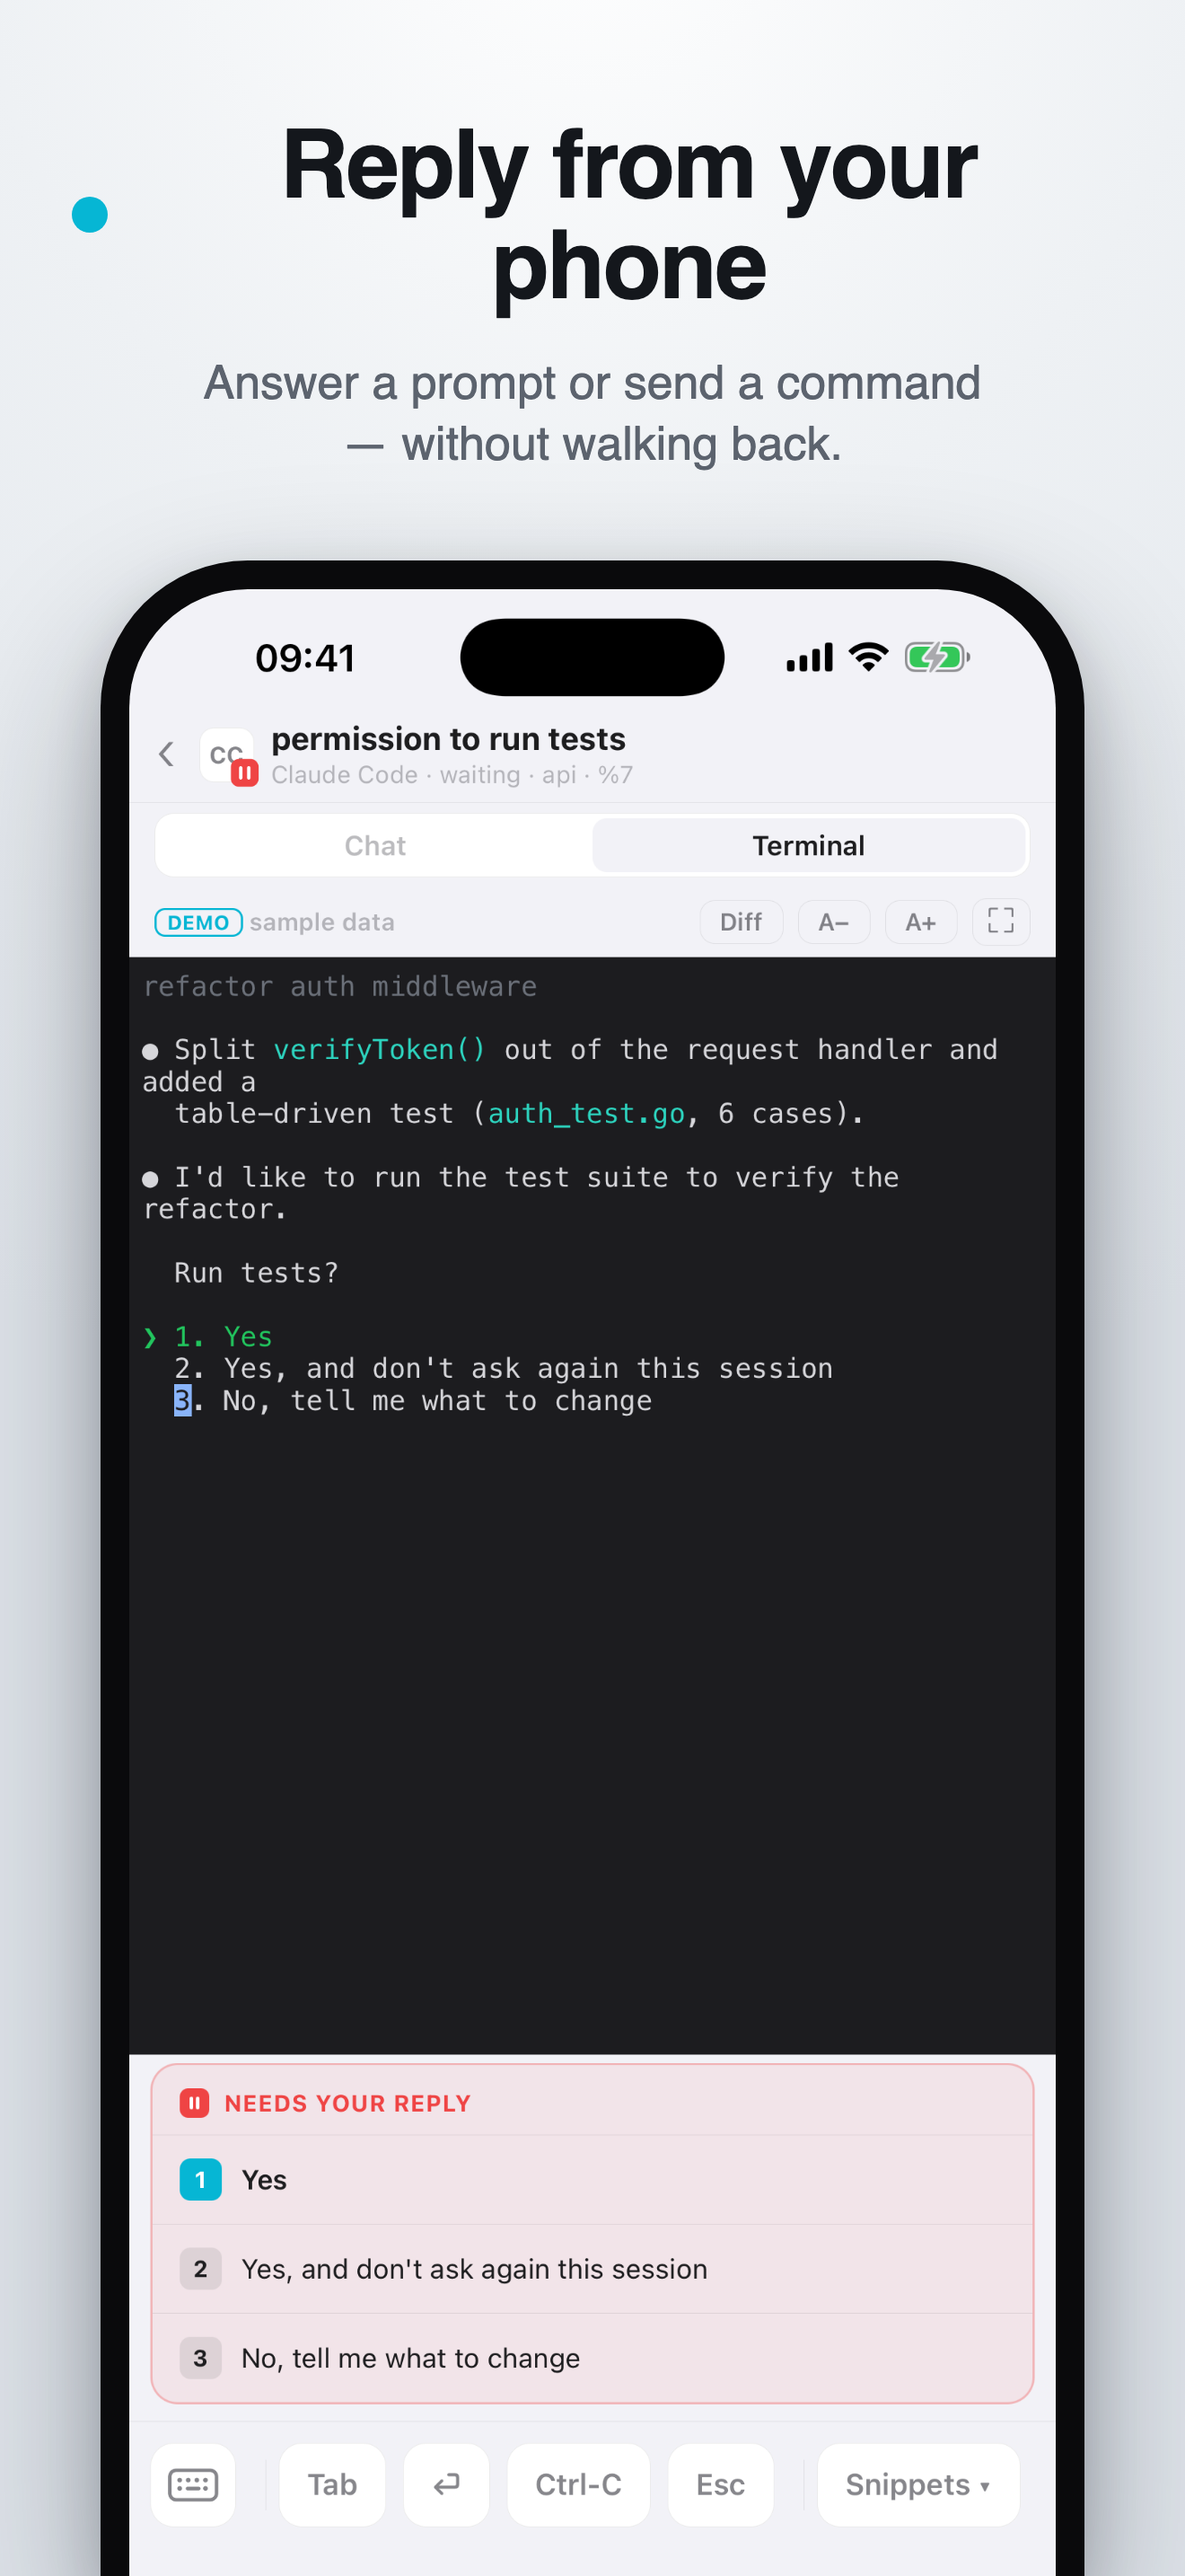
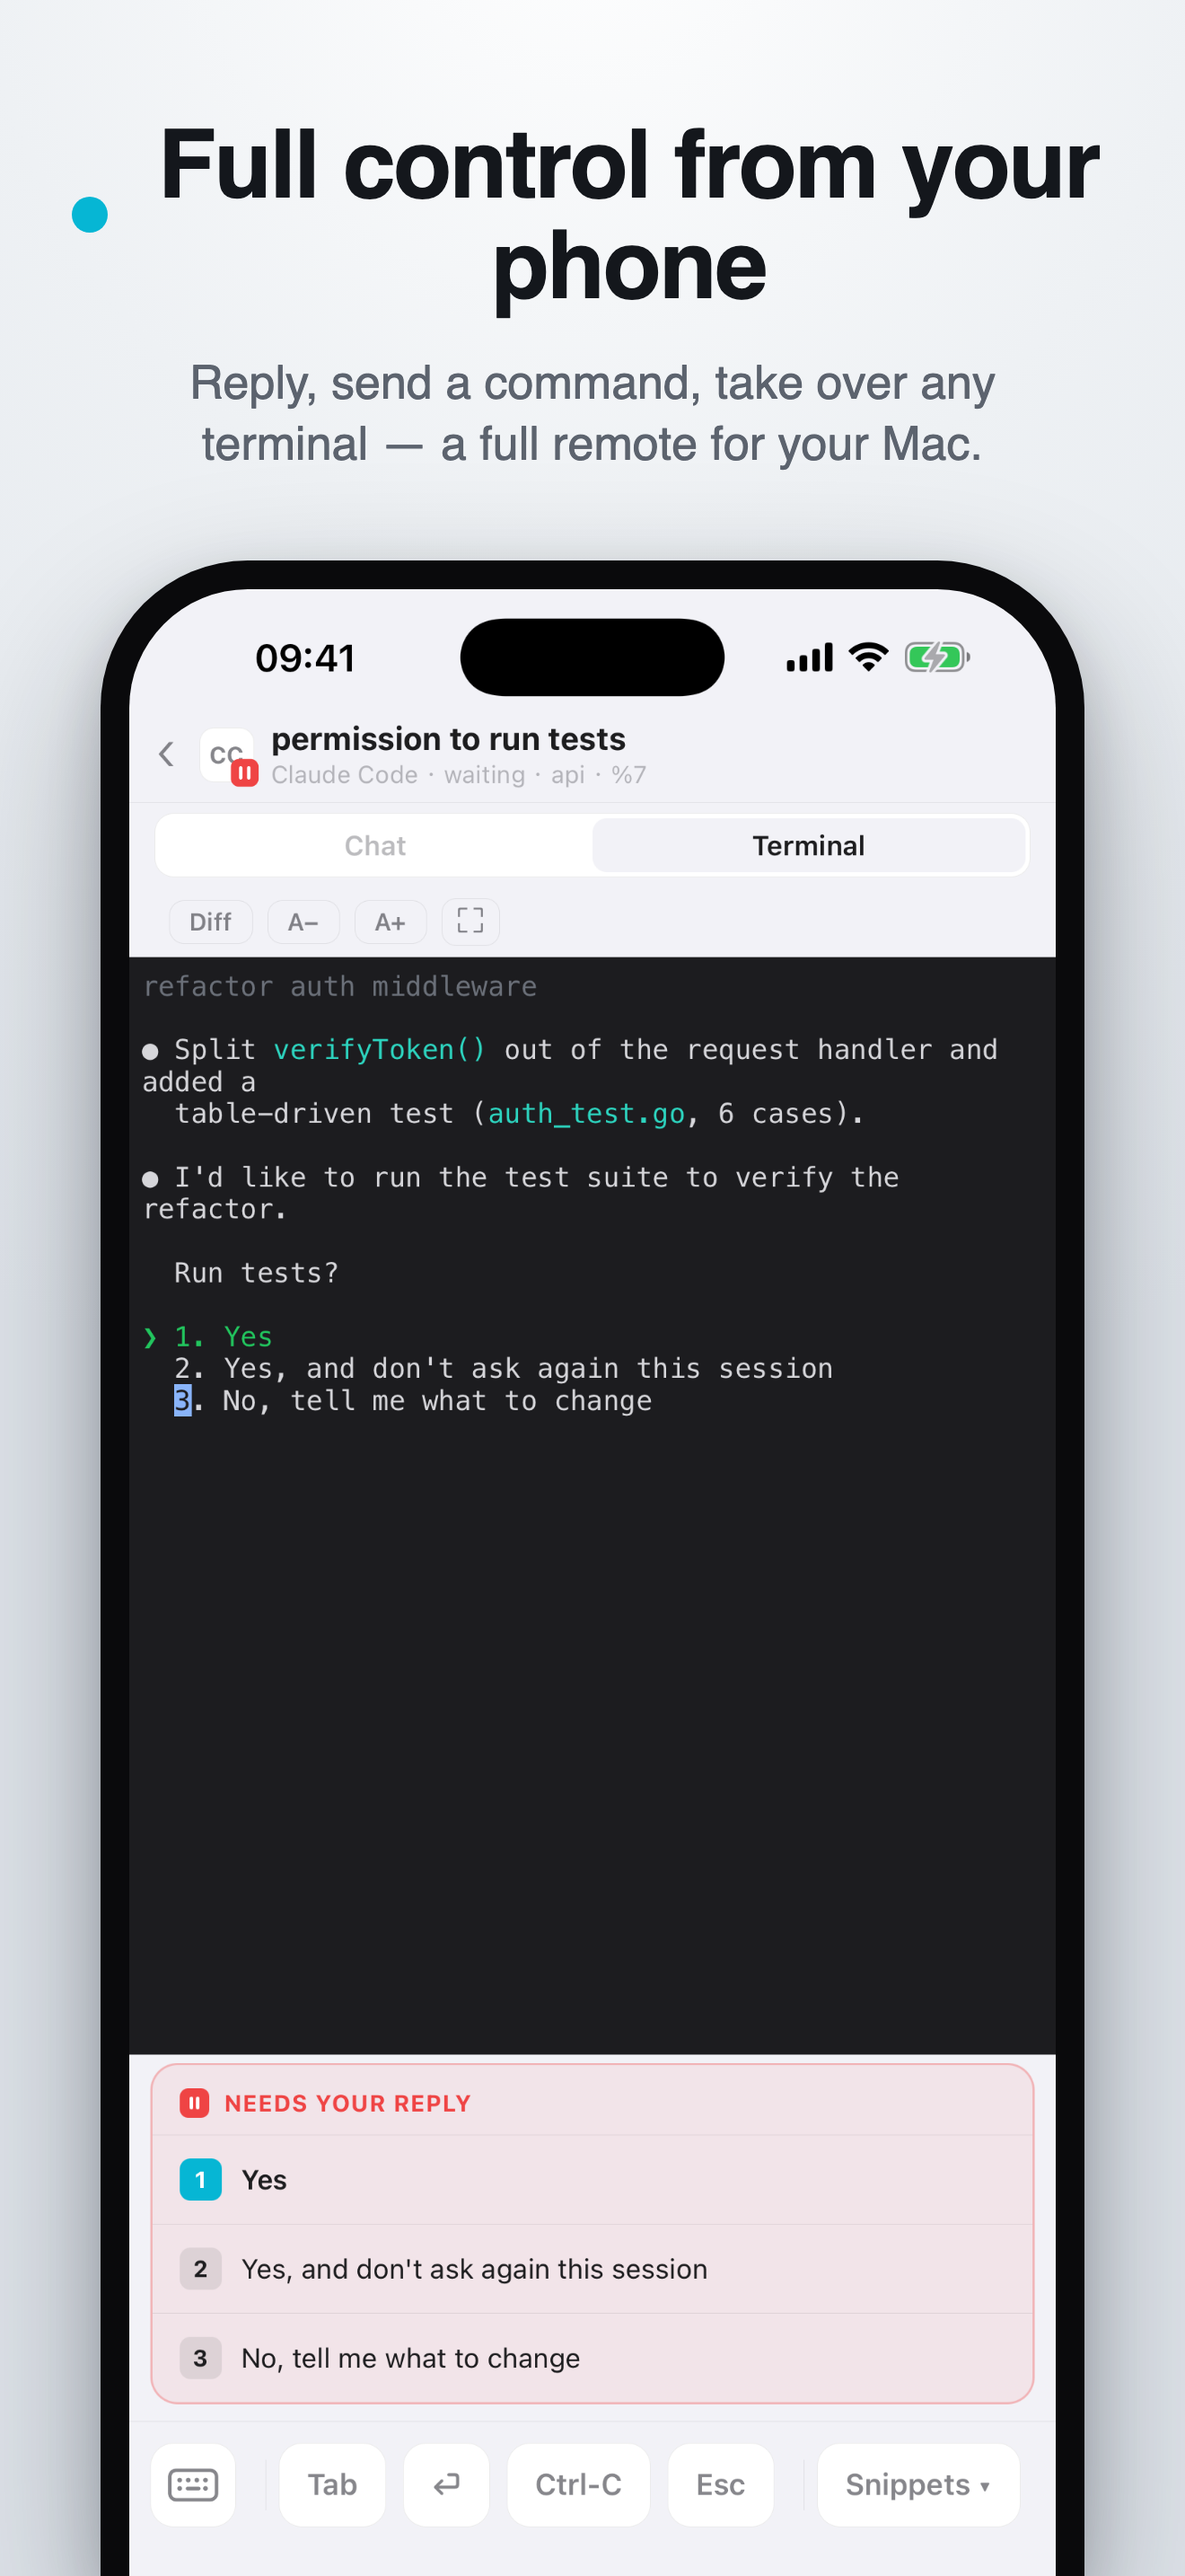
feat(appstore): add the multi-Mac shot; radar shot shows the real floating disc
Follow-up to the marketing-shots set, from review:

- New shot 03 "Switch between your Macs / 不同 Mac，随时切换": the multi-Mac story
  (one phone managing agents across several Macs). Captured from the two-track Servers
  page seeded via GTMUX_DEBUG_SERVERS (3 own Macs + a guest share link), with the first
  Mac active so it shows a green "connected" dot. Now 6 shots (SEE / STEER / MULTI-MAC /
  SUPERVISE / NOTIFY / LIVE).
- Radar shot (01) now shows the real floating HQ DISC, not the demo's HQ card: SHOT_MODE
  renders the disc in DemoScreen and hides the demo-only "Pair your Mac" CTA, so the
  capture matches what a real paired radar looks like. (The shipped demo still uses the
  card per MOBILE §17 — SHOT_MODE is capture-only.)
- Hid the Detail view's "DEMO sample data" chip in SHOT_MODE too (completes the demo-
  marker hiding across radar / HQ / detail).
- Copy de-AI-ified from review: shot 03 concrete + action-first ("不同 Mac，随时切换" +
  a plain list of the actual Macs), shot 02 headline "Full control from your phone", and
  the heavy Chinese em-dashes (——) in 02/03 replaced with 顿号/逗号.

Harness: the servers capture navigates via the radar server chip; the demo shots target
the disc's testID. Regenerate: python3 mobileapp/docs/appstore/gen_screenshots.py (recapture
needs Node 22). Mobile-only; npm run check (338) green.

diff --git a/mobileapp/e2e/__tests__/appstore-shots.test.ts b/mobileapp/e2e/__tests__/appstore-shots.test.ts
@@ -47,10 +47,10 @@ gated('app store demo shots', () => {
     await demo.waitForDisplayed({timeout: 25_000});
     await demo.click();
 
-    // 1) Demo radar — the HQ card (intelligence headline) + the fleet in the status
-    //    language. The HQ card confirms the demo radar rendered.
-    const hqCard = driver.$('~radar-hq-card');
-    await hqCard.waitForDisplayed({timeout: 20_000});
+    // 1) Demo radar — the fleet in the status language + the floating HQ DISC (SHOT_MODE
+    //    renders the real disc, not the demo's HQ card). The disc confirms the radar rendered.
+    const hqDisc = driver.$('~radar-hq-disc');
+    await hqDisc.waitForDisplayed({timeout: 20_000});
     await settle(1400); // let icons + rows settle
     shot('01-radar');
 
@@ -65,16 +65,36 @@ gated('app store demo shots', () => {
     shot('02-terminal-approval');
 
     await driver.$(`~${TestIds.detail.back}`).click();
-    await hqCard.waitForDisplayed({timeout: 10_000});
+    await hqDisc.waitForDisplayed({timeout: 10_000});
 
     // 3) HQ command page — the chief-of-staff differentiator: the assessment line +
     //    the your-call / activity / console zones (hq-command-page removed the old fleet
-    //    board). Captured last so we never need its (untested) back control.
-    await hqCard.click();
+    //    board). Tapping the disc opens the real HQScreen.
+    await hqDisc.click();
     await settle(1800);
     shot('03-hq');
 
+    // 4) Servers — the multi-Mac story: one phone managing agents across several Macs
+    //    (own Macs full-control + a scoped guest connection). Seeded via GTMUX_DEBUG_SERVERS
+    //    (no active → the app lands on the two-track Servers page); SHOT_MODE greens the
+    //    first row's connected dot.
+    const servers = JSON.stringify([
+      {url: 'ccy-mbp.local:8765', token: 'demo', name: 'MacBook Pro'},
+      {url: 'studio.local:8765', token: 'demo', name: 'Mac Studio'},
+      {url: 'mac-mini.local:8765', token: 'demo', name: 'Office mini'},
+      {url: 'ana-mac.local:8765', token: 'demo', name: "Ana's Mac", scope: 'guest'},
+    ]);
+    await launchWithFlags({GTMUX_DEBUG_NO_PUSH: '1', GTMUX_DEBUG_SHOT_MODE: '1', GTMUX_DEBUG_SERVERS: servers});
+    // The first seeded Mac is active, so the app opens on its radar — hop to the Servers
+    // page via the header's server chip (the two-track My-Macs / Guests list).
+    const chip = driver.$(`~${TestIds.radar.serverChip}`);
+    await chip.waitForDisplayed({timeout: 15_000});
+    await chip.click();
+    await driver.$(`~${TestIds.servers.screen}`).waitForDisplayed({timeout: 15_000});
+    await settle(900);
+    shot('04-servers');
+
     // eslint-disable-next-line no-console
-    console.log(`[appstore-shots] wrote 01-radar / 02-terminal-approval / 03-hq to ${OUT}`);
+    console.log(`[appstore-shots] wrote 01-radar / 02-terminal-approval / 03-hq / 04-servers to ${OUT}`);
   });
 });

diff --git a/mobileapp/src/screens/DemoScreen.tsx b/mobileapp/src/screens/DemoScreen.tsx
@@ -19,6 +19,7 @@ import {Debug} from '../debug';
 import {useApp} from '../state/AppContext';
 import {DemoAgentsProvider} from '../state/AgentsContext';
 import {HQCard} from '../ui/HQCard';
+import {HQDisc} from '../ui/HQDisc';
 import {SectionList} from '../ui/SectionList';
 import {StatusColor} from '../ui/theme';
 import {sampleAgents} from '../ui/demoData';
@@ -58,7 +59,10 @@ export function DemoScreen({onExit, onPair}: {onExit: () => void; onPair: () => 
           </Text>
         </View>
       )}
-      {hq && (
+      {/* The shipped demo keeps the HQ CARD (MOBILE §17); App Store SHOT_MODE renders the
+          real floating DISC instead (rendered as an overlay below), so the capture matches
+          what a real user's radar shows. */}
+      {hq && !Debug.shotMode && (
         <View style={styles.hqWrap}>
           <HQCard hq={hq} agents={agents} pal={pal} lang={lang} onPress={() => setShowHQ(true)} />
         </View>
@@ -109,13 +113,23 @@ export function DemoScreen({onExit, onPair}: {onExit: () => void; onPair: () => 
             ListHeaderComponent={Header}
           />
 
-          <TouchableOpacity
-            style={[styles.cta, {backgroundColor: StatusColor.working}]}
-            onPress={onPair}
-            accessibilityRole="button"
-            accessibilityLabel={lang === 'zh' ? '配对你的 Mac' : 'Pair your Mac'}>
-            <Text style={styles.ctaText}>{lang === 'zh' ? '配对你的 Mac' : 'Pair your Mac'}</Text>
-          </TouchableOpacity>
+          {/* The "Pair your Mac" CTA is a demo affordance the real radar doesn't have —
+              hidden in SHOT_MODE so the capture reads like a real paired radar. */}
+          {!Debug.shotMode && (
+            <TouchableOpacity
+              style={[styles.cta, {backgroundColor: StatusColor.working}]}
+              onPress={onPair}
+              accessibilityRole="button"
+              accessibilityLabel={lang === 'zh' ? '配对你的 Mac' : 'Pair your Mac'}>
+              <Text style={styles.ctaText}>{lang === 'zh' ? '配对你的 Mac' : 'Pair your Mac'}</Text>
+            </TouchableOpacity>
+          )}
+
+          {/* SHOT_MODE: the real floating HQ disc over the demo radar, so the App Store
+              capture shows the current UI (not the demo's HQ card). */}
+          {hq && Debug.shotMode && (
+            <HQDisc hq={hq} agents={agents} pal={pal} lang={lang} onOpen={() => setShowHQ(true)} />
+          )}
         </SafeAreaView>
       )}
     </DemoAgentsProvider>

diff --git a/mobileapp/src/screens/DetailScreen.tsx b/mobileapp/src/screens/DetailScreen.tsx
@@ -22,6 +22,7 @@ import {
 import {SafeAreaView} from 'react-native-safe-area-context';
 import AsyncStorage from '@react-native-async-storage/async-storage';
 import {Agent, PaneRow, paneRowToAgent, primary, ReplyOption, secondary, TermTheme} from '../api/types';
+import {Debug} from '../debug';
 import {SendPayload, TranscriptTurn} from '../api/client';
 import {useAgents} from '../state/AgentsContext';
 import {useApp} from '../state/AppContext';
@@ -510,14 +511,17 @@ export function DetailView({
           {demo ? (
             // Demo tour: no real connection — a persistent DEMO chip so canned
             // output is never mistaken for a live Mac (research: label follows you in).
-            <View style={styles.live}>
-              <View style={[styles.demoPill, {borderColor: StatusColor.working}]}>
-                <Text style={[styles.demoPillText, {color: StatusColor.working}]}>DEMO</Text>
+            // Hidden in SHOT_MODE (clean App Store captures); the shipped demo shows it.
+            Debug.shotMode ? null : (
+              <View style={styles.live}>
+                <View style={[styles.demoPill, {borderColor: StatusColor.working}]}>
+                  <Text style={[styles.demoPillText, {color: StatusColor.working}]}>DEMO</Text>
+                </View>
+                <Text style={[styles.ctlText, {color: pal.fg3}]} numberOfLines={1}>
+                  {lang === 'zh' ? ' 样例数据' : ' sample data'}
+                </Text>
               </View>
-              <Text style={[styles.ctlText, {color: pal.fg3}]} numberOfLines={1}>
-                {lang === 'zh' ? ' 样例数据' : ' sample data'}
-              </Text>
-            </View>
+            )
           ) : isWide ? (
             <View style={styles.live} />
           ) : (

diff --git a/mobileapp/src/state/AppContext.tsx b/mobileapp/src/state/AppContext.tsx
@@ -136,6 +136,13 @@ export function AppProvider({children}: {children: React.ReactNode}) {
           /* malformed seed — ignore */
         }
       }
+      // SHOT_MODE: mark the first seeded Mac active so its Servers-page row shows a green
+      // "connected" dot (the rest stay grey "saved") — the honest one-active-many-saved
+      // look, vs an all-grey "nothing connected" list. Capture-only. The harness lands on
+      // the radar first, then opens the Servers page via the server chip.
+      if (Debug.shotMode && act == null && svs.length > 0) {
+        act = svs[0].url;
+      }
       setServers(svs);
       setActiveUrl(act);
       if (lp === 'en' || lp === 'zh' || lp === 'system') setLangPrefState(lp);

diff --git a/mobileapp/docs/appstore/gen_screenshots.py b/mobileapp/docs/appstore/gen_screenshots.py
@@ -176,19 +176,23 @@ SHOTS = [
          sub=dict(en="A live radar of every agent, color-coded by state.",
                   zh="每个 agent 的实时雷达，按状态着色。"),
          capture="01-radar"),
-    dict(name="02", accent=CYAN, cap=dict(en="Reply from your phone", zh="在手机上回话"),
-         sub=dict(en="Answer a prompt or send a command — without walking back.",
-                  zh="回一句、或直接发命令——不用走回电脑。"),
+    dict(name="02", accent=CYAN, cap=dict(en="Full control from your phone", zh="手机上完整掌控"),
+         sub=dict(en="Reply, send a command, take over any terminal — a full remote for your Mac.",
+                  zh="回话、发命令、接管任意终端，你 Mac 的完整远程遥控。"),
          capture="02-terminal-approval"),
-    dict(name="03", accent=GREEN, cap=dict(en="An HQ triages the rest", zh="中控替你分诊"),
+    dict(name="03", accent=GREEN, cap=dict(en="Switch between your Macs", zh="不同 Mac，随时切换"),
+         sub=dict(en="Your MacBook, the studio Mac, even one a teammate shares.",
+                  zh="你的 MacBook、工作室那台，还有同事共享给你的。"),
+         capture="04-servers"),
+    dict(name="04", accent=RED, cap=dict(en="An HQ triages the rest", zh="中控替你分诊"),
          sub=dict(en="A supervisor watches the fleet and surfaces only what matters.",
                   zh="参谋长盯着全舰队，只把要紧的推给你。"),
          capture="03-hq"),
-    dict(name="04", accent=RED, cap=dict(en="Pinged when it needs you", zh="该你出手时才提醒"),
+    dict(name="05", accent=RED, cap=dict(en="Pinged when it needs you", zh="该你出手时才提醒"),
          sub=dict(en="Reply 1·2·3 straight from the notification.",
                   zh="通知上直接 1·2·3 回应。"),
          mockup=notify_mockup),
-    dict(name="05", accent=CYAN, cap=dict(en="Live on your Lock Screen", zh="锁屏实时可见"),
+    dict(name="06", accent=CYAN, cap=dict(en="Live on your Lock Screen", zh="锁屏实时可见"),
          sub=dict(en="The current agent's state on your Lock Screen and Dynamic Island.",
                   zh="当前 agent 状态，常驻锁屏与灵动岛。"),
          mockup=liveactivity_mockup),
